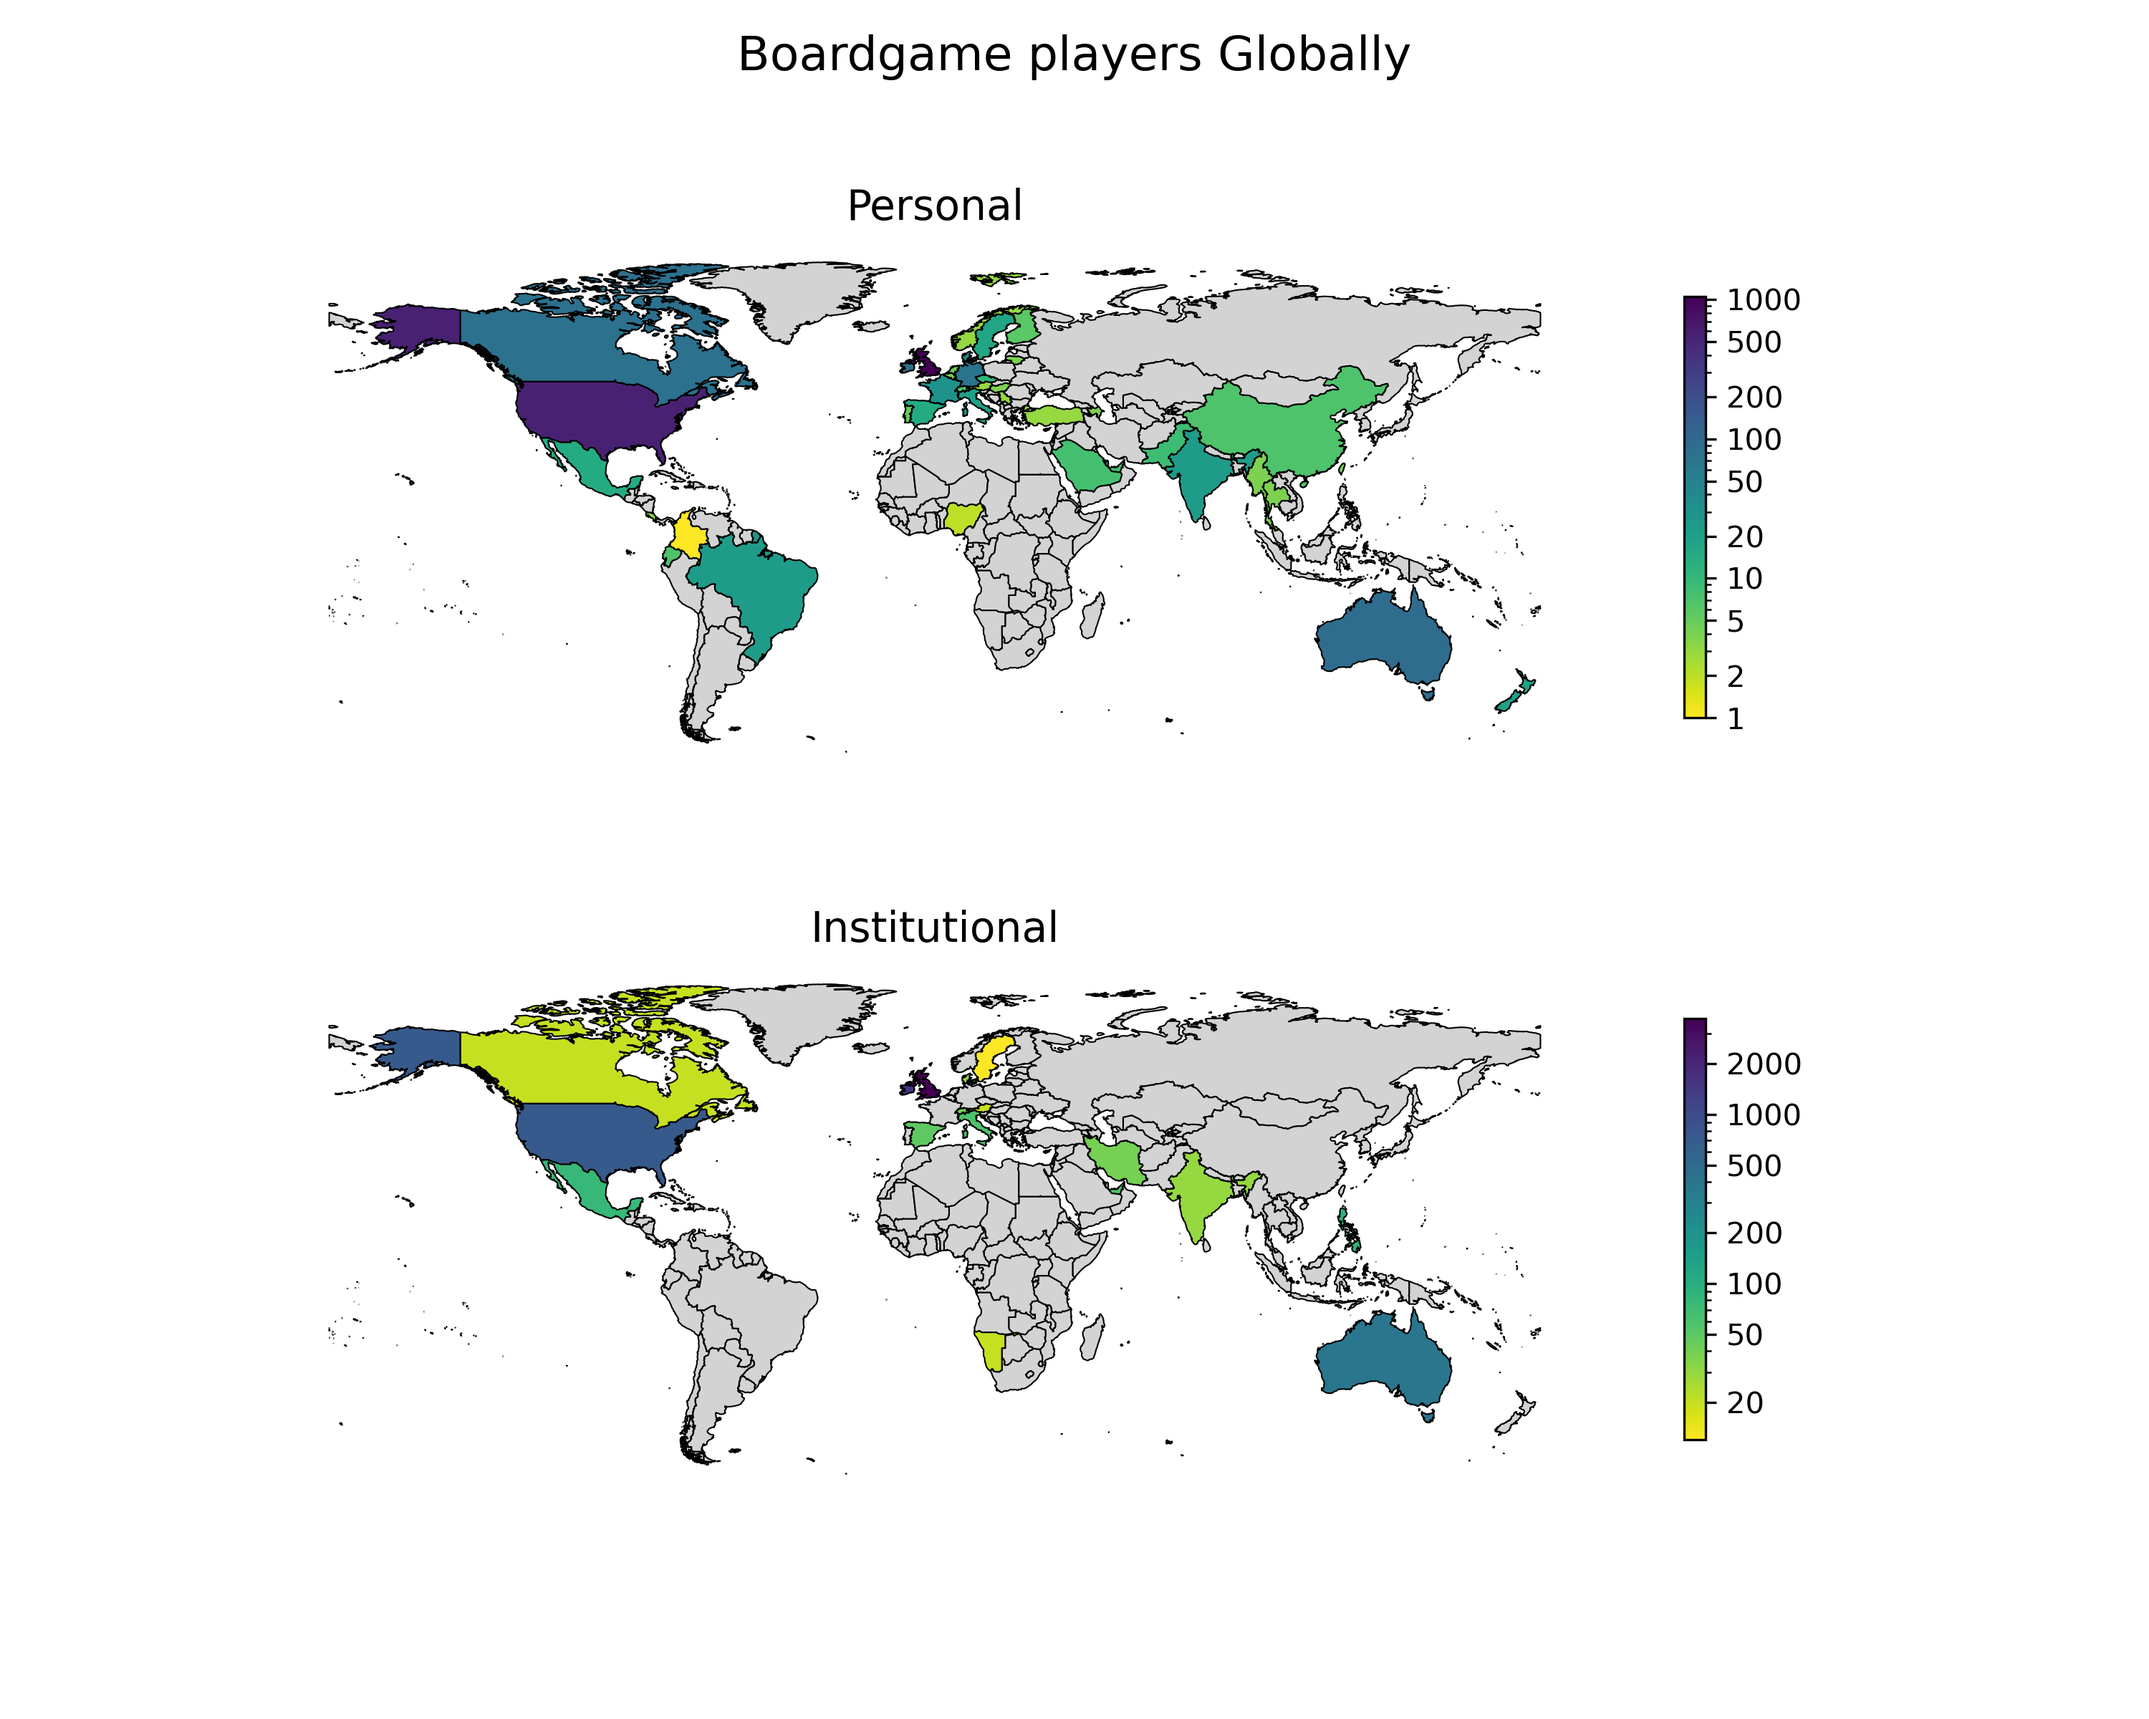
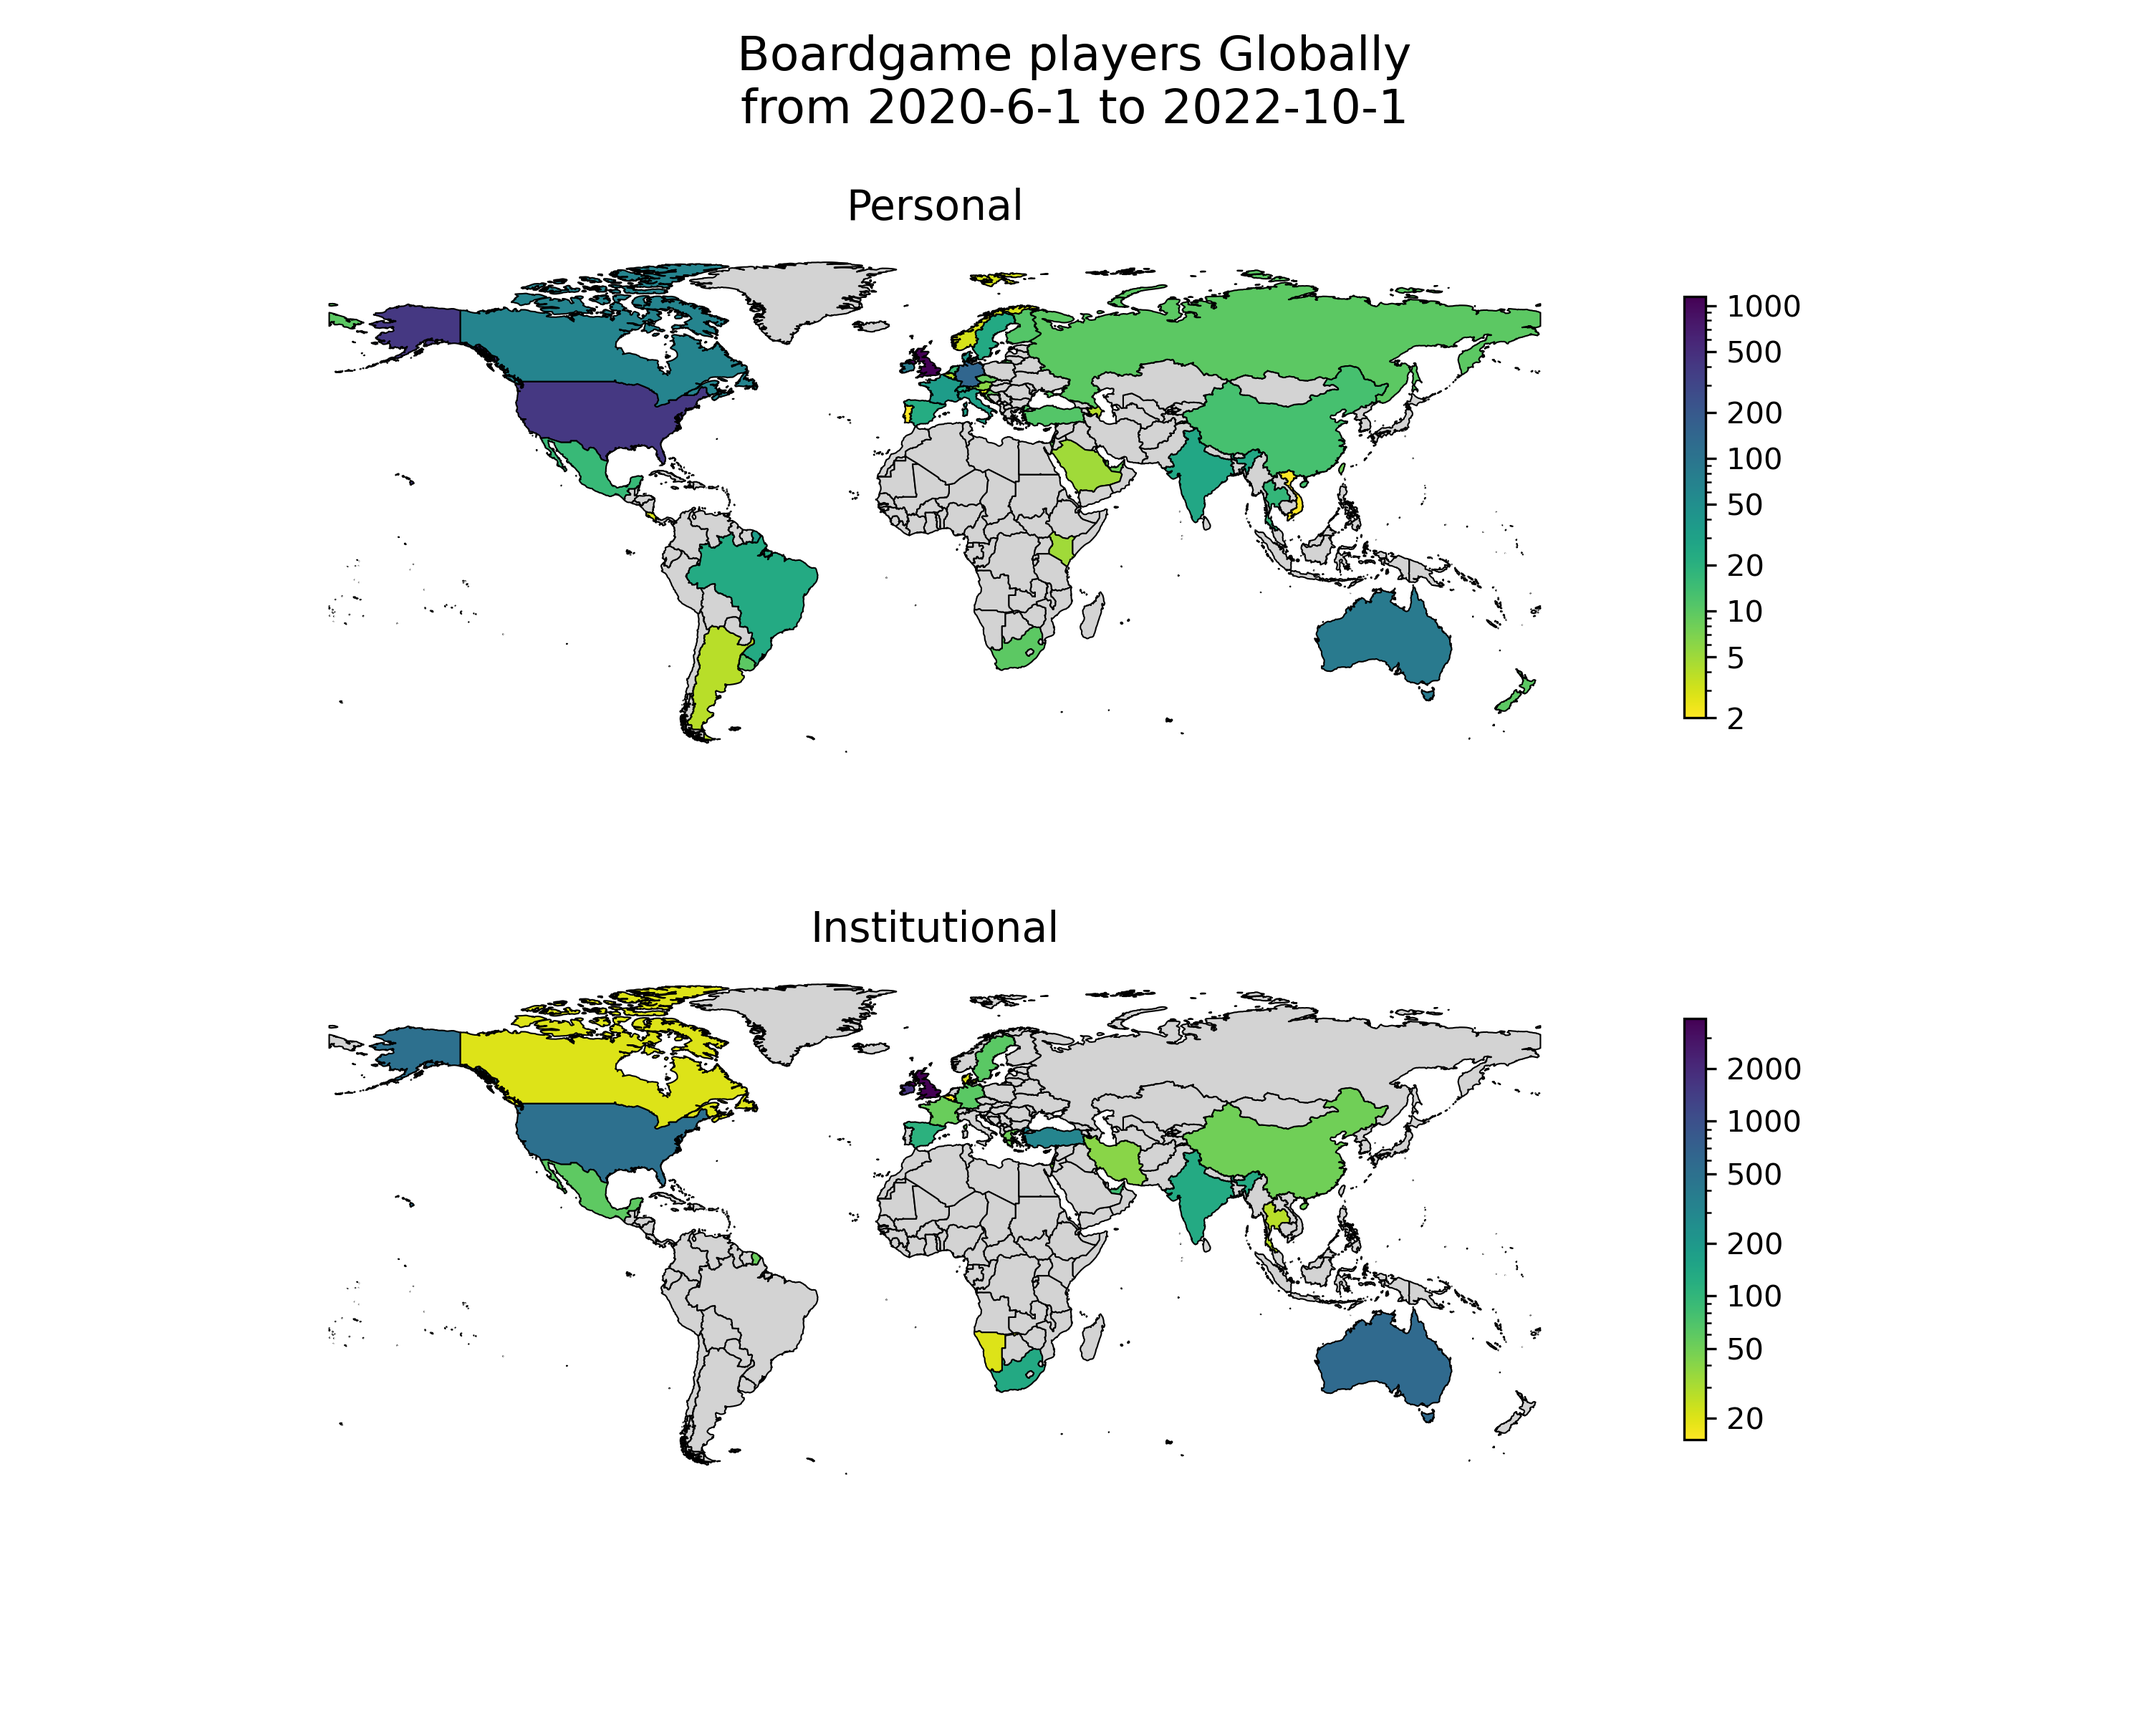
Added world statistics
And fixed up some typos and print statements from code in general

diff --git a/WorldPlayers.py b/WorldPlayers.py
@@ -1,6 +1,7 @@
 import geopandas as gpd
 import os
 import matplotlib.pyplot as plt
+import matplotlib.pylab as pl
 from matplotlib.ticker import LogFormatter
 from matplotlib.ticker import ScalarFormatter
 import matplotlib.colors as colors
@@ -11,20 +12,19 @@ all_df = gpd.read_file(fp)
 
 all_df = all_df[all_df['NAME'] != 'Antarctica']
 
-print(all_df)
-
 # Now the map is sorted out, add the data
 import pandas as pd
 import numpy as np
 df = pd.read_csv("data/Questionaire_Responces.csv")
 del df['UserID']
 del df['UserNo']
-del df['Started']
 del df['Ended']
 del df['Q1']
 del df['Q4']
 del df['Q5']
 del df['Q6']
+df['Started'] = pd.to_datetime(df['Started'])
+df = df.set_index(['Started'])
 df['Q3.1'] = df['Q3.1. 0 - 7 years old'].replace('-','0').replace(np.NaN,0).astype(int)
 df['Q3.2'] = df['Q3.2. 8 - 14 years old'].replace('-','0').replace(np.NaN,0).astype(int)
 df['Q3.3'] = df['Q3.3. 15 - 19 years old'].replace('-','0').replace(np.NaN,0).astype(int)
@@ -32,7 +32,13 @@ df['Q3.4'] = df['Q3.4. 20 +'].replace('-','0').replace(np.NaN,0).astype(int)
 df['total'] = df['Q3.1']+df['Q3.2']+df['Q3.3']+df['Q3.4']
 df['Q2'][df['UK']==1.0] = 'United Kingdom'
 df['NAME'] = df['Q2']
-print(df)
+
+clean_df = df.copy()
+
+start_date = '2020-6-1'
+end_date = '2022-10-1'
+# set the range, start date set before to pick up any early ones where plotting is problematic
+df = clean_df.loc[start_date:end_date]
 
 # seperate personal and institutional data
 df_ind = df[df['total']<=10]
@@ -43,8 +49,6 @@ df_ind = df_ind.groupby('NAME').agg({'Q3.1':['sum'],'Q3.2':['sum'],'Q3.3':['sum'
 df_big = df_big.groupby('NAME').agg({'Q3.1':['sum'],'Q3.2':['sum'],'Q3.3':['sum'],'Q3.4':['sum'],'total':['sum']})
 df_ind.columns = df_ind.columns.get_level_values(0)
 df_big.columns = df_big.columns.get_level_values(0)
-
-print(df_ind)
 
 #merge the 2 datasets with map data
 df_ind = pd.merge(all_df, df_ind, on=['NAME'], how='left')
@@ -86,7 +90,7 @@ ax1.axis('off')
 ax2.axis('off')
 
 # add a title
-fig.suptitle('Boardgame players Globally', fontsize=16)
+fig.suptitle(f'Boardgame players Globally\nfrom {start_date} to {end_date}', fontsize=16)
 ax1.set_title('Personal', \
               fontdict={'fontsize': '14'})
 ax2.set_title('Institutional', \
@@ -111,3 +115,31 @@ cbar2 = fig.colorbar(sm2, ax=ax2, shrink=0.7, format=formatter, ticks=[1,2,5,10,
 
 # this will save the figure as a high-res png. you can also save as svg
 fig.savefig('figures/WorldPlayers.png', dpi=300)
+
+# get back to the original datasets for plotting dat a over time
+# seperate personal and institutional data
+df_ind = df[df['total']<=10]
+df_big = df[df['total']>10]
+
+# for the individual data, make a plot of total vrs time
+plt.rcParams["figure.dpi"] = 300
+plt.clf()
+plt.cla()
+title = "Total number of individuals playing the game over time"
+df_ind_sum = df_ind['total'].sort_index().cumsum()
+ax = df_ind_sum.plot(kind='line', x='date', rot=90, stacked=True, colormap=pl.cm.viridis, figsize=(8, 6), title=title)
+ax.set_ylabel("Number of People")
+fig = ax.get_figure()
+fig.tight_layout()
+fig.savefig('figures/TotalWorldPlayersOverTime.png', dpi=300)
+
+# for the group data, make a plot of total vrs time
+plt.rcParams["figure.dpi"] = 300
+plt.clf()
+plt.cla()
+title = "Total number of groups playing the game over time"
+ax = df_big['total'].sort_index().cumsum().plot(kind='line', x='date', rot=90, stacked=True, colormap=pl.cm.viridis, figsize=(8, 6), title=title)
+ax.set_ylabel("Number of People")
+fig = ax.get_figure()
+fig.tight_layout()
+fig.savefig('figures/TotalWorldGroupsOverTime.png', dpi=300)

diff --git a/UKPlayers.py b/UKPlayers.py
@@ -10,8 +10,6 @@ import matplotlib.colors as colors
 fp = 'geoassets/Areas.shp'
 all_df = gpd.read_file(fp)
 
-#print(all_df)
-
 # Now the map is sorted out, add the data
 import pandas as pd
 import numpy as np
@@ -34,10 +32,7 @@ df['total'] = df['Q3.1']+df['Q3.2']+df['Q3.3']+df['Q3.4']
 df = df[df['UK'] == 1.0]
 df['name'] = df['Q2'].str.split('[0-9]').str[0].str.upper()
 
-#print(df)
-
 clean_df = df.copy()
-#print(df.loc['2020-1-1':'2022-1-1'])
 
 start_date = '2020-6-1'
 end_date = '2022-10-1'
@@ -122,23 +117,16 @@ cbar2 = fig.colorbar(sm2, ax=ax2, shrink=0.4, format=formatter, ticks=[1,2,5,10,
 # this will save the figure as a high-res png. you can also save as svg
 fig.savefig(f'figures/UKPlayers.png', dpi=300)
 
-
-print(df)
 # get back to the original datasets for plotting dat a over time
 # seperate personal and institutional data
 df_ind = df[df['total']<=10]
 df_big = df[df['total']>10]
 
-print(df_ind)
-
-
-# for the last data, make a plot of total vrs time
+# for the individual data, make a plot of total vrs time
 plt.rcParams["figure.dpi"] = 300
 plt.clf()
 plt.cla()
-title = "total number of individuals playing the game over time"
-#print('wibble')
-#print(df_ind)
+title = "Total number of individuals playing the game over time"
 df_ind_sum = df_ind['total'].sort_index().cumsum()
 print(df_ind_sum)
 ax = df_ind_sum.plot(kind='line', x='date', rot=90, stacked=True, colormap=pl.cm.viridis, figsize=(8, 6), title=title)
@@ -148,11 +136,11 @@ fig.tight_layout()
 fig.savefig('figures/TotalUKPlayersOverTime.png', dpi=300)
 
 
-# for the last data, make a plot of total vrs time
+# for the group data, make a plot of total vrs time
 plt.rcParams["figure.dpi"] = 300
 plt.clf()
 plt.cla()
-title = "total number of groups playing the game over time"
+title = "Total number of groups playing the game over time"
 ax = df_big['total'].sort_index().cumsum().plot(kind='line', x='date', rot=90, stacked=True, colormap=pl.cm.viridis, figsize=(8, 6), title=title)
 ax.set_ylabel("Number of People")
 fig = ax.get_figure()
